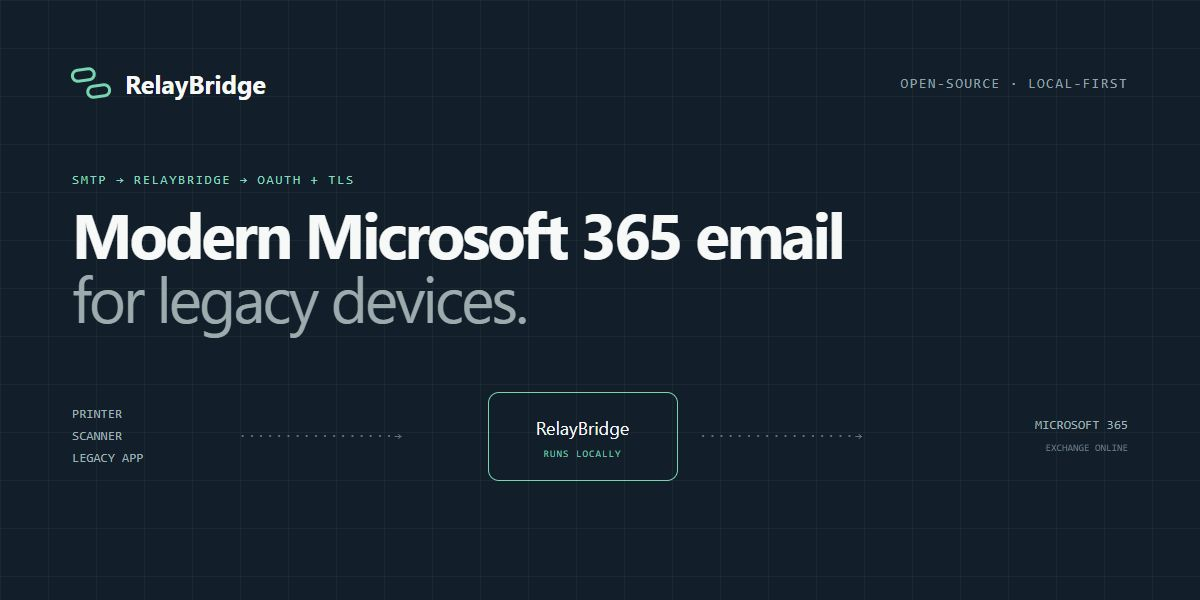
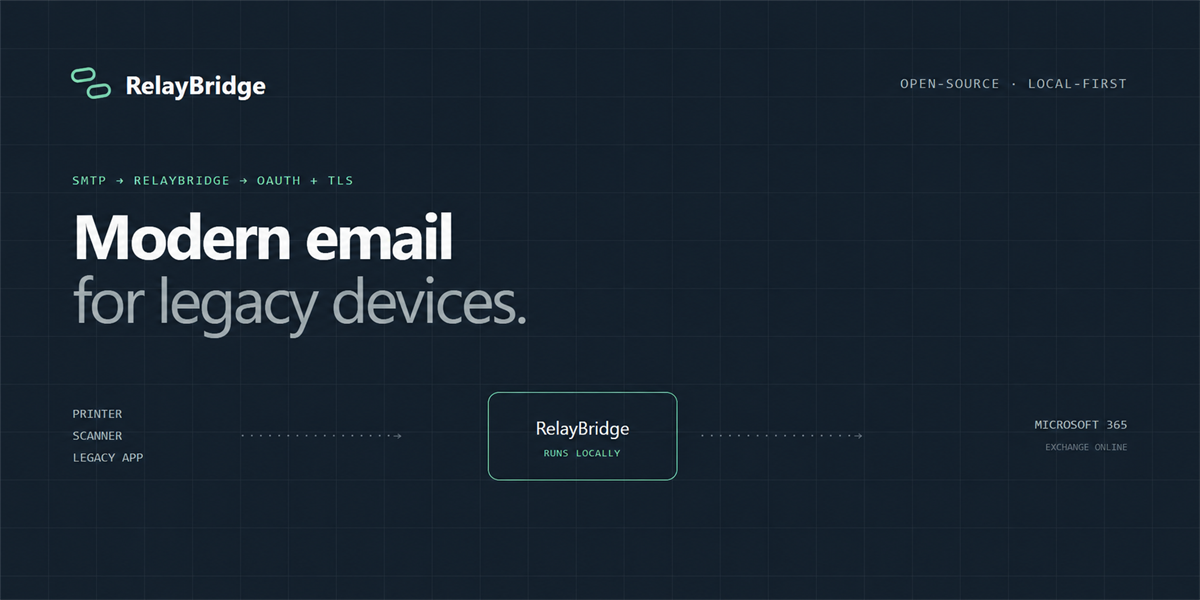
Finalize pre-release RelayBridge website

diff --git a/src/styles/global.css b/src/styles/global.css
@@ -59,7 +59,8 @@ p, h1, h2, h3 { margin-top: 0; }
 .eyebrow i { font-style: normal; opacity: .45; }
 .eyebrow-light { color: #9ab4b8; }
 .hero h1 { max-width: 700px; margin-bottom: 26px; font-size: clamp(44px, 5vw, 72px); line-height: 1.02; letter-spacing: -.055em; font-weight: 700; }
-.hero h1 em, h2 em { color: #9ab2b5; font-style: normal; font-weight: 450; }
+.hero h1 em { color: #9ab2b5; font-style: normal; font-weight: 450; }
+h2 em { color: #788e91; font-style: normal; font-weight: 450; }
 .hero-lede { max-width: 650px; margin-bottom: 34px; color: #b9c8c9; font-size: 18px; line-height: 1.65; }
 .status-line { display: flex; align-items: center; gap: 9px; margin: 24px 0 0; color: #859da1; font-family: var(--mono); font-size: 11px; letter-spacing: .04em; }
 .status-line span { width: 6px; height: 6px; border-radius: 50%; background: #f5bb63; }
@@ -103,7 +104,7 @@ p, h1, h2, h3 { margin-top: 0; }
 .steps-grid { display: grid; grid-template-columns: repeat(3, 1fr); gap: 0; margin: 0 0 42px; padding: 0; list-style: none; border: 1px solid var(--line); border-radius: var(--radius); background: var(--surface); overflow: hidden; }
 .steps-grid li { position: relative; min-height: 330px; padding: 32px; }
 .steps-grid li:not(:last-child) { border-right: 1px solid var(--line); }
-.step-number { position: absolute; right: 25px; top: 23px; color: #9ba8a8; font: 11px/1 var(--mono); }
+.step-number { position: absolute; right: 25px; top: 23px; color: #66787a; font: 11px/1 var(--mono); }
 .step-icon { width: 62px; height: 62px; display: grid; place-items: center; margin: 18px 0 52px; border: 1px solid #b6c5c3; border-radius: 50%; color: #527177; font: 10px/1 var(--mono); }
 .step-icon-accent { border-color: #5dcdb3; color: #13816b; background: #e8f8f3; }
 .steps-grid h3, .feature-grid h3 { margin-bottom: 12px; font-size: 19px; letter-spacing: -.02em; }
@@ -129,6 +130,7 @@ p, h1, h2, h3 { margin-top: 0; }
 .open-source-grid { display: grid; grid-template-columns: 1.1fr .9fr; gap: 90px; align-items: center; }
 .open-source-grid h2 { margin-bottom: 28px; font-size: clamp(42px, 5vw, 68px); line-height: 1.04; letter-spacing: -.05em; }
 .open-source-grid .button-row { margin-top: 35px; align-items: center; }
+.open-source-section .text-link { color: #157b68; }
 .code-card { overflow: hidden; border: 1px solid #aebdba; border-radius: 14px; background: #0c252f; box-shadow: 0 28px 60px rgba(8,32,40,.14); }
 .code-card-bar { height: 48px; display: flex; align-items: center; gap: 7px; padding: 0 17px; border-bottom: 1px solid rgba(255,255,255,.12); }
 .code-card-bar > span { width: 7px; height: 7px; border-radius: 50%; background: #536c71; }
@@ -154,14 +156,14 @@ p, h1, h2, h3 { margin-top: 0; }
 .visual-label-dark { color: #789095; }
 .flow-summary { display: grid; grid-template-columns: repeat(4, 1fr); margin-top: 44px; border-top: 1px solid var(--line); border-left: 1px solid var(--line); }
 .flow-summary > div { padding: 28px 25px; border-right: 1px solid var(--line); border-bottom: 1px solid var(--line); }
-.flow-summary span { color: #6d8385; font: 10px/1 var(--mono); }
+.flow-summary span { color: #657a7c; font: 10px/1 var(--mono); }
 .flow-summary h2 { margin: 34px 0 8px; font-size: 20px; }
 .flow-summary p { margin: 0; color: var(--muted); font-size: 13px; }
 
 .technical-section { background: #f0f3ef; }
 .docs-layout { display: grid; grid-template-columns: 220px 1fr; gap: 80px; }
 .section-aside { align-self: start; position: sticky; top: 30px; }
-.section-aside > p:last-child { color: #778789; font-size: 13px; }
+.section-aside > p:last-child { color: #607274; font-size: 13px; }
 .prose { max-width: 820px; }
 .prose h2 { margin-bottom: 24px; font-size: clamp(38px, 4vw, 56px); line-height: 1.08; letter-spacing: -.04em; }
 .prose h2 em { color: #7d9396; font-style: normal; font-weight: 450; }
@@ -175,7 +177,7 @@ p, h1, h2, h3 { margin-top: 0; }
 .technical-rows p, .security-rows p { margin: 0; font-size: 14px; }
 .two-column-copy { display: grid; grid-template-columns: 1fr 1fr; gap: 90px; align-items: start; }
 .two-column-copy h2 { font-size: clamp(40px, 4.6vw, 62px); line-height: 1.05; letter-spacing: -.05em; }
-.small-note { margin-top: 30px; padding-top: 20px; border-top: 1px solid var(--line); color: #7c8b8d; font-size: 12px; }
+.small-note { margin-top: 30px; padding-top: 20px; border-top: 1px solid var(--line); color: #67797b; font-size: 12px; }
 .compact-cta { padding: 72px 0; }
 .compact-cta-grid { display: grid; grid-template-columns: 1fr auto; align-items: end; gap: 60px; }
 .compact-cta h2 { margin-bottom: 12px; font-size: clamp(32px, 3.5vw, 48px); line-height: 1.08; letter-spacing: -.04em; }
@@ -185,7 +187,7 @@ p, h1, h2, h3 { margin-top: 0; }
 .security-summary-grid { display: grid; grid-template-columns: repeat(3, 1fr); }
 .security-summary-grid div { min-height: 92px; display: flex; flex-direction: column; justify-content: center; padding: 18px 30px; border-left: 1px solid rgba(255,255,255,.1); }
 .security-summary-grid div:last-child { border-right: 1px solid rgba(255,255,255,.1); }
-.security-summary-grid span { margin-bottom: 7px; color: #728f92; font: 9px/1 var(--mono); letter-spacing: .1em; }
+.security-summary-grid span { margin-bottom: 7px; color: #7d9a9d; font: 9px/1 var(--mono); letter-spacing: .1em; }
 .security-summary-grid strong { color: #dce6e4; font-size: 13px; }
 .security-nav nav { display: grid; gap: 12px; padding-top: 19px; border-top: 1px solid var(--line); }
 .security-nav nav a { color: #5e7478; font-size: 12px; text-decoration: none; }
@@ -195,7 +197,7 @@ p, h1, h2, h3 { margin-top: 0; }
 .principle-grid { display: grid; grid-template-columns: repeat(3, 1fr); margin-top: 44px; border: 1px solid var(--line); }
 .principle-grid > div { min-height: 220px; padding: 24px; }
 .principle-grid > div:not(:last-child) { border-right: 1px solid var(--line); }
-.principle-grid b { color: #398a7b; font: 10px/1 var(--mono); }
+.principle-grid b { color: #348274; font: 10px/1 var(--mono); }
 .principle-grid h3 { margin: 60px 0 10px; font-size: 16px; }
 .principle-grid p { margin: 0; font-size: 13px; }
 .callout { margin: 35px 0; padding: 22px 25px; border: 1px solid #d6c697; border-radius: 9px; background: #fff9e8; }
@@ -203,11 +205,12 @@ p, h1, h2, h3 { margin-top: 0; }
 .callout p { margin: 7px 0 0; color: #6b5b2d; }
 .limitation-list { display: grid; gap: 14px; }
 .limitation-list article { display: grid; grid-template-columns: 44px 1fr; gap: 20px; padding: 24px; border: 1px solid #d5cfc2; border-radius: 10px; background: #fbfaf5; }
-.limitation-list article > span { color: #927b43; font: 10px/1 var(--mono); }
+.limitation-list article > span { color: #867039; font: 10px/1 var(--mono); }
 .limitation-list h3 { margin-bottom: 7px; }
 .limitation-list p { margin: 0; font-size: 14px; }
 .does-not-section { padding: 52px !important; border: 0 !important; border-radius: 16px; color: #e9f1ef; background: var(--ink); }
 .does-not-section h2 { color: #fff; }
+.does-not-section .eyebrow { color: #9ab4b8; }
 .check-list { margin: 32px 0 0; padding: 0; list-style: none; }
 .check-list li { position: relative; padding: 13px 0 13px 32px; border-top: 1px solid rgba(255,255,255,.11); color: #b4c5c6; }
 .x-list li::before { content: "×"; position: absolute; left: 4px; color: var(--accent); }
@@ -220,13 +223,13 @@ p, h1, h2, h3 { margin-top: 0; }
 .docs-grid { display: grid; grid-template-columns: repeat(3, 1fr); border-top: 1px solid var(--line); border-left: 1px solid var(--line); }
 .docs-grid article { min-height: 280px; display: flex; flex-direction: column; padding: 28px; border-right: 1px solid var(--line); border-bottom: 1px solid var(--line); }
 .docs-grid article > div:first-child { display: flex; justify-content: space-between; align-items: center; }
-.topic-number { color: #6d8183; font: 10px/1 var(--mono); }
-.topic-status { color: #907944; font: 9px/1 var(--mono); text-transform: uppercase; }
+.topic-number { color: #65797b; font: 10px/1 var(--mono); }
+.topic-status { color: #8a733b; font: 9px/1 var(--mono); text-transform: uppercase; }
 .topic-status.is-available { color: #167d6a; }
 .docs-grid h3 { margin: 60px 0 11px; font-size: 19px; }
 .docs-grid p { margin: 0 0 18px; color: var(--muted); font-size: 13px; }
 .docs-grid .text-link, .topic-pending { margin-top: auto; align-self: start; font-size: 12px; }
-.topic-pending { color: #8c9a9b; }
+.topic-pending { color: #6b797b; }
 .docs-bottom { background: #eef1ec; }
 
 .download-page { min-height: 680px; display: grid; place-items: center; padding: 95px 0; }
@@ -237,7 +240,7 @@ p, h1, h2, h3 { margin-top: 0; }
 .download-grid .download-lede { color: #edf5f3 !important; font-size: 22px; }
 .download-grid .button-row { margin-top: 34px; }
 .release-card { padding: 31px; border: 1px solid rgba(255,255,255,.18); border-radius: 18px; background: rgba(255,255,255,.045); box-shadow: var(--shadow); }
-.release-card-head { display: flex; justify-content: space-between; padding-bottom: 20px; border-bottom: 1px solid rgba(255,255,255,.12); color: #789094; font: 9px/1 var(--mono); letter-spacing: .1em; }
+.release-card-head { display: flex; justify-content: space-between; padding-bottom: 20px; border-bottom: 1px solid rgba(255,255,255,.12); color: #7a9296; font: 9px/1 var(--mono); letter-spacing: .1em; }
 .release-card-head b { color: #9eb3b5; }
 .release-status-icon { width: 72px; height: 72px; margin: 48px auto 26px; display: grid; place-items: center; border: 1px dashed #59767a; border-radius: 50%; }
 .release-status-icon i { width: 24px; height: 24px; border: 2px solid var(--accent); border-radius: 50%; border-right-color: transparent; }
@@ -246,7 +249,7 @@ p, h1, h2, h3 { margin-top: 0; }
 .release-card dl { margin: 43px 0 0; border-top: 1px solid rgba(255,255,255,.12); }
 .release-card dl div { display: flex; justify-content: space-between; padding: 15px 0; border-bottom: 1px solid rgba(255,255,255,.12); }
 .release-card dt, .release-card dd { font-size: 11px; }
-.release-card dt { color: #70878b; }
+.release-card dt { color: #7b9397; }
 .release-card dd { margin: 0; color: #c1d0d1; }
 .release-card dd span { display: inline-block; width: 6px; height: 6px; margin-right: 6px; border-radius: 50%; background: #e5b457; }
 .narrow-copy { max-width: 820px; }
@@ -261,7 +264,7 @@ p, h1, h2, h3 { margin-top: 0; }
 .about-principles p { color: var(--muted); font-size: 13px; }
 
 .privacy-layout { display: grid; grid-template-columns: 220px 1fr; gap: 85px; }
-.privacy-layout aside { display: flex; flex-direction: column; color: #6f8284; font: 9px/1.8 var(--mono); letter-spacing: .09em; }
+.privacy-layout aside { display: flex; flex-direction: column; color: #67797b; font: 9px/1.8 var(--mono); letter-spacing: .09em; }
 .privacy-layout aside strong { color: #314e52; font-size: 11px; }
 .privacy-prose section { padding-bottom: 45px; margin-bottom: 45px; border-bottom: 1px solid var(--line); }
 .privacy-prose section:last-child { border-bottom: 0; }
@@ -287,6 +290,11 @@ p, h1, h2, h3 { margin-top: 0; }
 .footer-grid nav a:hover { color: #fff; }
 .footer-legal { display: flex; justify-content: space-between; gap: 24px; padding-top: 22px; border-top: 1px solid rgba(255,255,255,.1); font-size: 11px; }
 .footer-legal p { margin: 0; }
+
+@media (min-width: 721px) {
+  .hero-visual .architecture { grid-template-columns: minmax(88px, 118px) minmax(32px, 1fr) minmax(112px, 145px) minmax(32px, 1fr) minmax(105px, 135px); gap: 8px; }
+  .hero-visual .flow-connector { min-width: 0; }
+}
 
 @media (max-width: 980px) {
   .hero-grid { grid-template-columns: 1fr; }

diff --git a/README.md b/README.md
@@ -1,6 +1,6 @@
 # RelayBridge website
 
-The public website for [RelayBridge](https://getrelaybridge.com), an open-source, local SMTP-to-Microsoft-365 modernization bridge for legacy devices and applications.
+The public website for [RelayBridge](https://getrelaybridge.com), an open-source project for modern email delivery from legacy SMTP devices and applications. RelayBridge starts with Microsoft 365 / Exchange Online as its current v1.0 target.
 
 This repository contains the static public website only. It does not depend on, import, or contain RelayBridge application source or private configuration.
 
